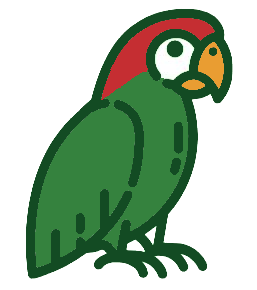
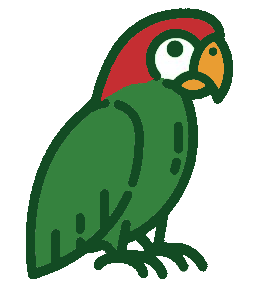
replaced bird with newly colored version

diff --git a/src/main/resources/templates/login.html b/src/main/resources/templates/login.html
@@ -24,7 +24,7 @@
                     You have been logged out.
                 </div>
 
-                <img src="/img/bird-log-nobg.png"/><br/>
+                <img src="/img/bird-colored.png"/><br/>
                 <input type="text" placeholder="Username" id="username" name="username"/><br/>
                 <input type="password" placeholder="Password" id="password" name="password"/><br/>
                 <input type="submit" value="Login"/><br/>

diff --git a/src/main/resources/static/css/login.css b/src/main/resources/static/css/login.css
@@ -123,7 +123,7 @@ input:-webkit-autofill:active {
     transition: background-color 5000s ease-in-out 0s;
 }
 input:-webkit-autofill {
-    -webkit-text-fill-color: #092a3a !important;
+    -webkit-text-fill-color: white !important;
 }
 h1#company_name{
     width:250px;
